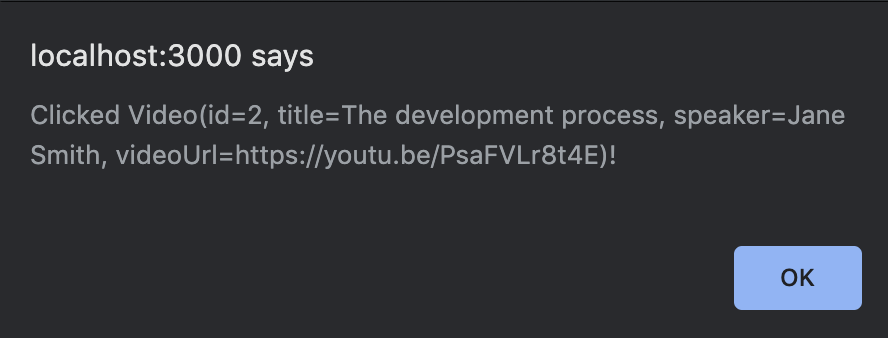
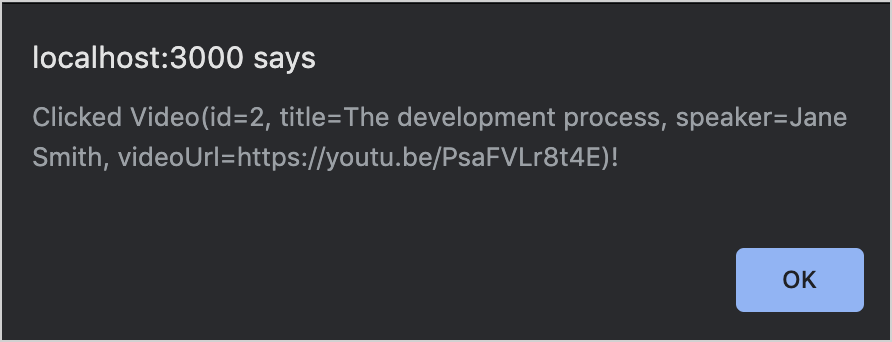
fix: stylistic changes and screenshots after review

diff --git a/docs/topics/js/js-react.md b/docs/topics/js/js-react.md
@@ -103,7 +103,7 @@ When the project is compiled and bundled, a red, blank page will appear in a bro
 
 ### Enable hot reload / continuous mode
 
-Configure the _continuous_ compilation mode, instead of manually compiling and executing your project every time the changes
+Configure the _[continuous compilation](dev-server-continuous-compilation.md)_ mode, instead of manually compiling and executing your project every time the changes
 are made. Make sure to stop all running development server instances before proceeding.
 
 1. Edit a run configuration that IntelliJ IDEA automatically generates after running the Gradle `run` task for the first time:
@@ -125,7 +125,7 @@ are made. Make sure to stop all running development server instances before proc
 
    The project then recompiles, and after a reload the browser will show the new color.
 
-You can keep the development server running in continuous mode during the development process. It will automatically rebuild
+You can keep the development server running in the continuous mode during the development process. It will automatically rebuild
 and reload the page when you make changes.
 
 > You can find this state of the project on the `master` branch [here](https://github.com/kotlin-hands-on/web-app-react-kotlin-js-gradle/tree/master).
@@ -228,8 +228,7 @@ div {
 }
 ```
 
-Add the Kotlin code to the `render()` function call inside the `main()` function,
-replacing the previous `h1` tag.
+Add the Kotlin code to the `render()` function call inside the `main()` function, replacing the previous `h1` tag.
 
 Wait for the browser to reload. The page should now look like this:
 
@@ -295,7 +294,7 @@ sure that the loop is working.
 The [kotlin-styled](https://github.com/JetBrains/kotlin-wrappers/tree/master/kotlin-styled) library wraps the [styled-components](https://www.styled-components.com/)
 JavaScript library allowing to define styles [globally](https://github.com/JetBrains/kotlin-wrappers/blob/master/kotlin-styled/README.md#global-styles)
 or for individual elements of the DOM. Conceptually, that makes it similar to [CSS-in-JS](https://reactjs.org/docs/faq-styling.html#what-is-css-in-js) – but for Kotlin.
-The benfit of using a DSL is that you can use Kotlin code constructs to express formatting rules.
+The benefit of using a DSL is that you can use Kotlin code constructs to express formatting rules.
 
 The template project for this tutorial already includes everything for using `kotlin-styled`:
 
@@ -339,7 +338,7 @@ Feel free to experiment with some other styles. For example, you could change th
 >
 {type="note"}
 
-## Structure your application
+## Design app components
 
 The basic building blocks in React are called _[components](https://reactjs.org/docs/components-and-props.html)_.
 You build your application by combining these components, which
@@ -356,10 +355,10 @@ each component handles its responsibilities:
 
 ![Structured layout with components](structured-layout.png){width=700}
 
-Сomponents encapsulate a particular functionality. Using components shortens source code and makes it easier to read and
+Components encapsulate a particular functionality. Using components shortens source code and makes it easier to read and
 understand.
 
-### Add component
+### Add the main component
 
 Create the main component for rendering into the `root` element, the `app`:
 
@@ -438,7 +437,7 @@ and contains the code from the `unwatchedVideos` list.
    // . . .
    ```
 
-### Add props
+### Add props to pass data between components
 
 For reusing the `videoList` component, it should be possible to fill it with different content. You can add
 the ability to pass the list of items as an attribute to the component. In React, these attributes are called _props_.
@@ -487,10 +486,8 @@ After a reload the browser will show that the lists render correctly now.
 
 ### Make the list interactive
 
-When the user clicks on a list entry, the video player should actually play that video. To start, add an `alert` to the
-video the user selects.
-
-In the code of `videoList`, add an `onClickFunction` handler that triggers an alert with the current video:
+For start, add an alert message that pops up when users click on a list entry. In the code of `videoList`, add
+the `onClickFunction` handler that triggers an `alert` with the current video:
 
 ```kotlin
 // . . .
@@ -506,7 +503,7 @@ p {
 // . . .
 ```
 
-If you click on one of the list items in the browser window, you'll get the following information inside an `alert`
+If you click on one of the list items in the browser window, you'll get the following information inside an alert
 window:
 
 ![Browser alert window](alert-window.png){width=700}
@@ -518,12 +515,12 @@ window:
 >
 {type="tip"}
 
-### Add state
+### Add state to keep values
 
 You can add a ▶ triangle to highlight the selected video instead of alerting the user. To do that, introduce some
 _state_ specific to this component.
 
-State is one of the other core concepts in React. In modern React (using the so-called _Hooks API_), state is expressed
+State is one of core concepts in React. In modern React (using the so-called _Hooks API_), state is expressed
 using the [`useState` hook](https://reactjs.org/docs/hooks-state.html).
 
 1. Add the following line of code to the top of the `videoList` declaration:
@@ -1189,7 +1186,7 @@ enough for development purposes.
 
 1. [Create an account](https://signup.heroku.com/).
 2. [Install and authenticate the CLI client](https://devcenter.heroku.com/articles/heroku-cli).
-3. Create a git repository and attach a Heroku app by running the following commands in the Terminal while in the project root:
+3. Create a Git repository and attach a Heroku app by running the following commands in the Terminal while in the project root:
 
    ```bash
    git init
@@ -1250,7 +1247,7 @@ If everything's OK, you will see the URL under which it's possible to reach the 
 
 ## What's next
 
-### Add more features
+### Add more features {initial-collapse-state="collapsed"}
 
 You can use the resulting app as a jumping-off point to explore more advanced topics in the realm of React, Kotlin/JS, and more.
 
@@ -1262,22 +1259,22 @@ Alternatively, look into ways of [storing information on the client](https://dev
 * **Complex APIs**. There are lots of datasets and APIs available. You can pull any data into your application, for example,
 build a visualizer for [cat photos](https://thecatapi.com/) or a [royalty-free stock photo API](https://unsplash.com/developers).
 
-### Improve the style: responsiveness and grids
+### Improve the style: responsiveness and grids {initial-collapse-state="collapsed"}
 
 The application design is still very simple and won't look great on mobile devices or in narrow windows. Explore
 some more of the CSS DSL to make the app more accessible.
 
-### Join the community and get help
+### Join the community and get help {initial-collapse-state="collapsed"}
 
 The best way to report problems and get help is the [kotlin-wrappers issue tracker](https://github.com/JetBrains/kotlin-wrappers/issues).
 If you can't find your problem, file a new issue. You can also join the official [Kotlin Slack](https://surveys.jetbrains.com/s3/kotlin-slack-sign-up).
 There are channels for `#javascript` and `#react`.
 
-### Learn more about coroutines
+### Learn more about coroutines {initial-collapse-state="collapsed"}
 
 If you're interested in finding out more about how you can write concurrent code, check out the hands-on lab on [coroutines](https://play.kotlinlang.org/hands-on/Introduction%20to%20Coroutines%20and%20Channels/01_Introduction).
 
-### Learn more about React
+### Learn more about React {initial-collapse-state="collapsed"}
 
 Now that you know the basic concepts and how they translate to Kotlin, you can convert some other concepts outlined
 in the [official guides on React](https://reactjs.org/docs/) into Kotlin.
